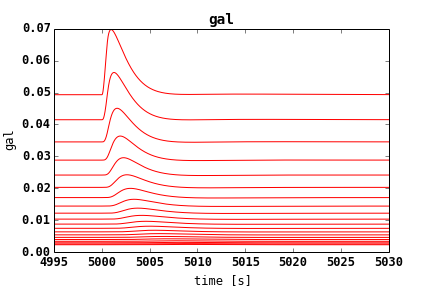
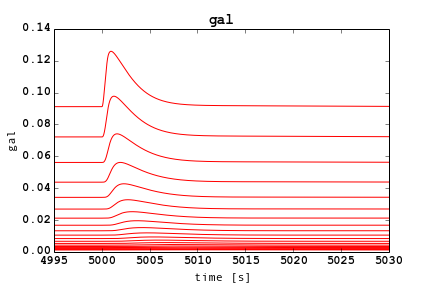
Testing the pressure implementation

diff --git a/python/simulator/simulator/roadrunner_tools/galactose_pressure.py b/python/simulator/simulator/roadrunner_tools/galactose_pressure.py
@@ -1,0 +1,66 @@
+'''
+#########################################################################    
+# Pressure dependent flow
+#########################################################################  
+Analysis and visualization of the pressure dependent flow model with 
+local pore flow.
+
+@author: Matthias Koenig
+@date: 2015-04-13
+'''
+import copy
+import galactose_settings as settings
+import roadrunner_tools as rt
+import dilution_plots as dp
+reload(settings)
+
+#########################################################################    
+# Load model
+#########################################################################    
+sbml_file = settings.SBML_DIR + '/' + 'Galactose_v{}_Nc20_dilution.xml'.format(settings.VERSION)
+# sbml_file = SBML_DIR + '/' + 'Galactose_v{}_Nc{}_dilution_gauss.xml'.format(VERSION, NC)
+r = rt.load_model(sbml_file)
+
+#########################################################################    
+# Set selection
+#########################################################################
+# define the subpart of interest of the simulation
+compounds = ['alb', 'gal', 'galM', 'h2oM', 'rbcM', 'suc']
+sel = ['time']
+sel += ['[{}]'.format(item) for item in r.model.getBoundarySpeciesIds()]
+sel += ['[PV__{}]'.format(item) for item in compounds]
+sel += ['[PP__{}]'.format(item) for item in compounds]
+sel += ['[{}]'.format(item)for item in r.model.getFloatingSpeciesIds() if item.startswith('H')]
+sel += ['[{}]'.format(item)for item in r.model.getFloatingSpeciesIds() if item.startswith('S')]
+sel += ['[{}]'.format(item)for item in r.model.getFloatingSpeciesIds() if item.startswith('C')]
+sel += ['[{}]'.format(item)for item in r.model.getFloatingSpeciesIds() if item.startswith('D')]
+sel += [item for item in r.model.getReactionIds() if item.startswith('H')]
+sel += [item for item in r.model.getReactionIds() if item.startswith('C')]
+sel += [item for item in r.model.getReactionIds() if item.startswith('D')]
+sel += [item for item in r.model.getReactionIds() if item.startswith('F_')]
+
+sel += ["peak"]
+r.selections = sel
+
+
+
+# sel += [ "".join(["[", item, "]"]) for item in r.model.getFloatingSpeciesIds()] 
+# sel += [item for item in rr.model.getReactionIds() if item.startswith('H')]
+
+#########################################################################    
+# Set parameters & simulate
+######################################################################### 
+reload(settings)
+inits = {}
+p_list = []
+
+d = copy.deepcopy(settings.D_TEMPLATE)    
+d["[PP__gal]"] = 0.28
+d["flow_sin"] = settings.F_FLOW * r.flow_sin  
+p_list.append(d)
+print d
+
+# perform simulation
+s_list = [rt.simulation(r, p, inits, absTol=1E-8, relTol=1E-8) for p in p_list]
+
+sim = s_list[0]

diff --git a/python/modelcreator/modelcreator/models/GalactoseFactory.py b/python/modelcreator/modelcreator/models/GalactoseFactory.py
@@ -20,7 +20,7 @@ from modelcreator.events.event_factory import createGalactoseStepEventData
 if __name__ == "__main__":
     
     # definition of cell model and tissue model
-    Nc = 2
+    Nc = 20
     Nf = 1
     version = 123
     cell_model = CellModel.createModel('galactose.GalactoseCell')
@@ -36,7 +36,6 @@ if __name__ == "__main__":
     tm.writeSBML()   
     tm.storeInDatabase()
     del tm
-    exit()
     
     #---------------------------------------------------------------------------------
     # [2A] multiple dilution indicator

diff --git a/python/simulator/simulator/roadrunner_tools/galactose_settings.py b/python/simulator/simulator/roadrunner_tools/galactose_settings.py
@@ -6,7 +6,9 @@ Created on Thu Feb 12 11:58:16 2015
 """
 
 # Model version to use
-VERSION = 106
+# VERSION = 107 # flow constant
+VERSION = 123 # pressure model
+
 SBML_DIR = '/home/mkoenig/multiscale-galactose-results/tmp_sbml'
 T_PEAK = 5000
 
